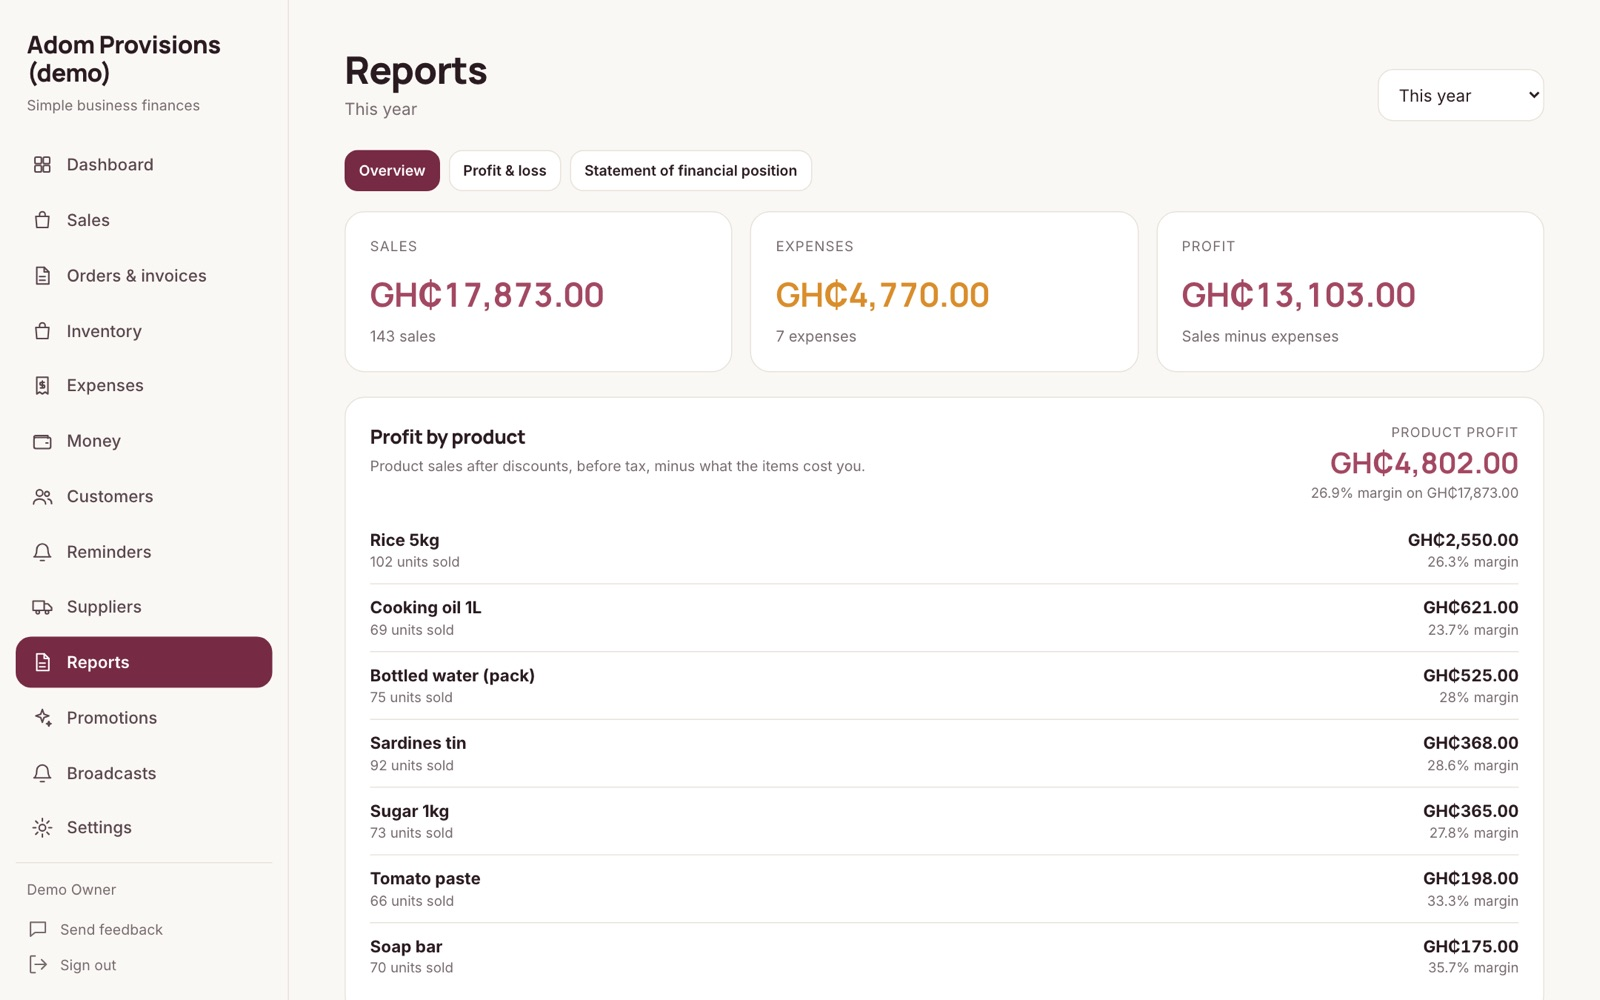
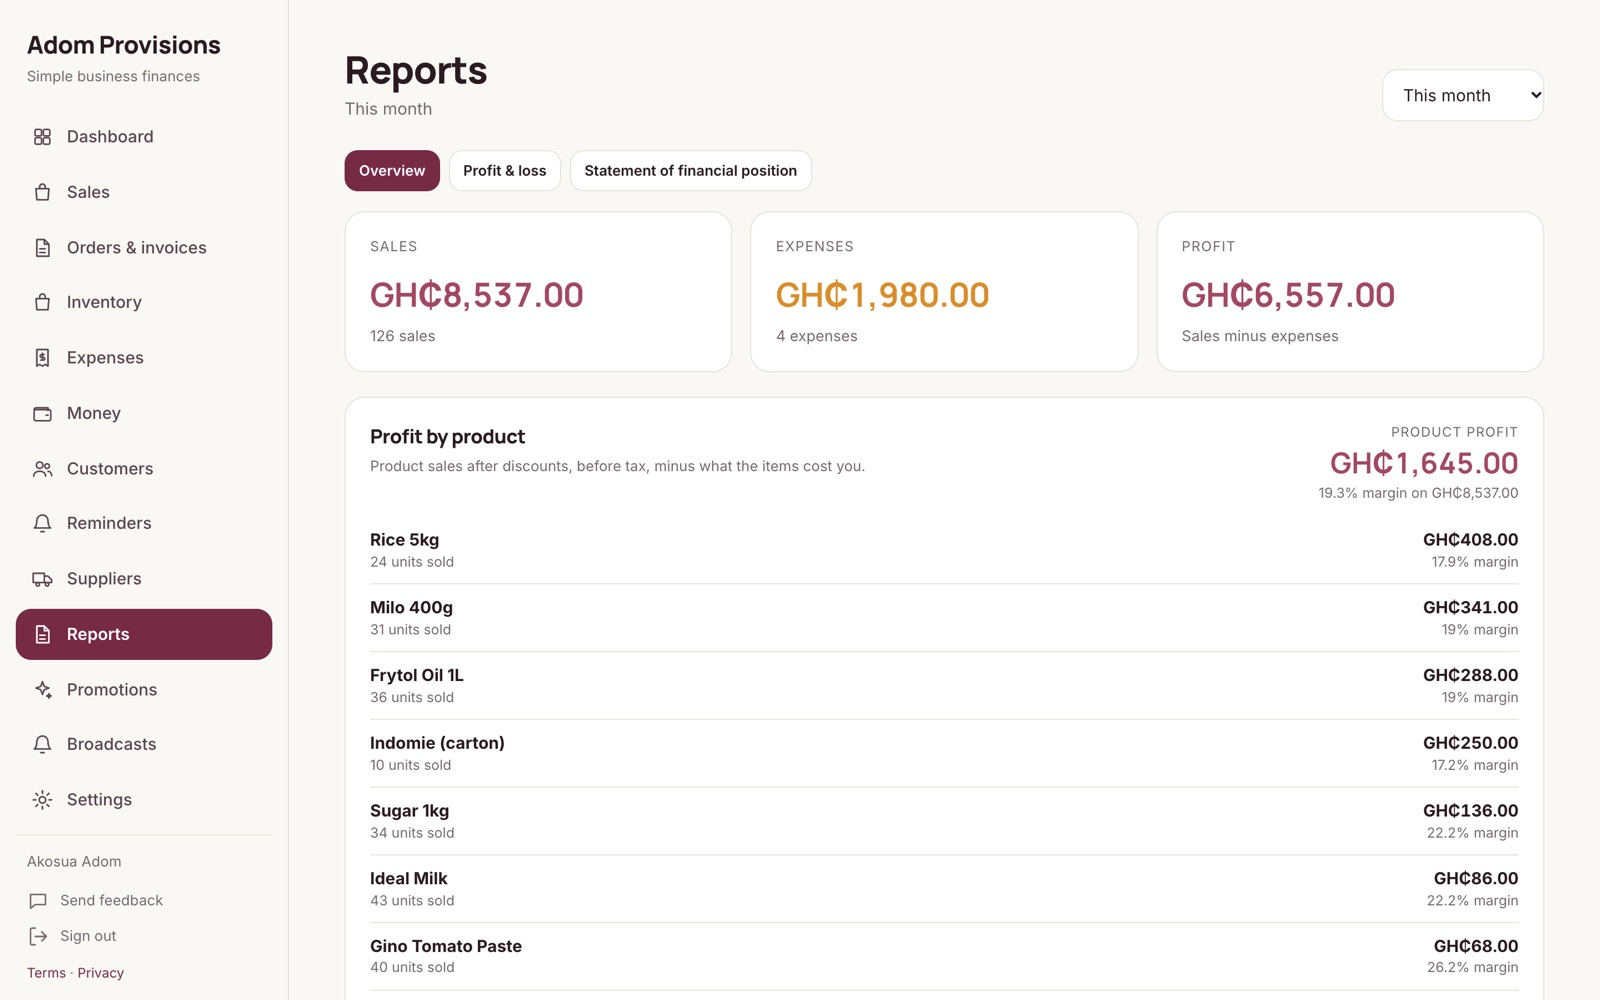
Add the BIZWISE case study

diff --git a/projects/bizwise.html b/projects/bizwise.html
@@ -1,0 +1,201 @@
+<!DOCTYPE html>
+<html lang="en">
+<head>
+  <meta charset="UTF-8">
+  <meta name="viewport" content="width=device-width, initial-scale=1.0">
+  <title>BIZWISE — Business Finance App Case Study · Michael Osei Yeboah</title>
+  <meta name="description" content="Case study: BIZWISE, a finance app for small businesses in Ghana covering sales, stock, invoices, customers and financial reports, built by Michael Osei Yeboah.">
+  <meta name="author" content="Michael Osei Yeboah">
+  <meta name="theme-color" content="#101010">
+  <link rel="canonical" href="https://michael-osei-yeboah.vercel.app/projects/bizwise.html">
+  <meta property="og:type" content="article">
+  <meta property="og:title" content="BIZWISE — Business Finance App Case Study">
+  <meta property="og:description" content="Sales, stock, invoices and financial reports for small businesses, with every amount kept exact to the pesewa.">
+  <meta property="og:url" content="https://michael-osei-yeboah.vercel.app/projects/bizwise.html">
+  <meta property="og:image" content="https://michael-osei-yeboah.vercel.app/assets/images/project-bizwise.jpg">
+  <meta name="twitter:card" content="summary_large_image">
+  <link rel="icon" href="../assets/images/favicon.svg" type="image/svg+xml">
+  <link rel="preconnect" href="https://fonts.googleapis.com">
+  <link rel="preconnect" href="https://fonts.gstatic.com" crossorigin>
+  <!-- Loaded without blocking the first paint -->
+  <link rel="preload" as="style" href="https://fonts.googleapis.com/css2?family=Inter+Tight:wght@300;400;500;600&family=Manrope:wght@400;500;600;700&display=swap" onload="this.onload=null;this.rel='stylesheet'">
+  <noscript><link rel="stylesheet" href="https://fonts.googleapis.com/css2?family=Inter+Tight:wght@300;400;500;600&family=Manrope:wght@400;500;600;700&display=swap"></noscript>
+  <link rel="stylesheet" href="../css/style.css">
+  <script>
+    // Marks JS as available and applies the saved (or device) colour theme before first paint
+    document.documentElement.classList.add("js");
+    (function () {
+      var t = null;
+      try { t = localStorage.getItem("theme"); } catch (e) {}
+      if (t !== "light" && t !== "dark") t = window.matchMedia("(prefers-color-scheme: dark)").matches ? "dark" : "light";
+      document.documentElement.setAttribute("data-theme", t);
+    })();
+  </script>
+  <script>window.va = window.va || function () { (window.vaq = window.vaq || []).push(arguments); };</script>
+  <script defer src="/_vercel/insights/script.js"></script>
+</head>
+<body id="top">
+  <a class="skip-link" href="#main">Skip to main content</a>
+
+  <header class="site-header">
+    <nav class="nav container" aria-label="Primary">
+      <div class="nav__bar">
+        <a href="../index.html" class="brand">
+          <span class="brand__mark" aria-hidden="true">MY</span>
+          <span class="brand__name">Michael Yeboah</span>
+        </a>
+        <div class="nav__menu" id="nav-menu">
+          <ul class="nav__links">
+            <li><a href="../index.html#about" class="nav__link">About</a></li>
+            <li><a href="../index.html#skills" class="nav__link">Skills</a></li>
+            <li><a href="../index.html#projects" class="nav__link is-active" aria-current="true">Work</a></li>
+            <li><a href="../index.html#experience" class="nav__link">Experience</a></li>
+            <li><a href="../index.html#cv" class="nav__link">CV</a></li>
+          </ul>
+          <a href="../index.html#contact" class="btn btn--glass btn--sm nav__cta">Get in touch</a>
+        </div>
+        <button class="theme-toggle" type="button" aria-label="Switch to dark mode">
+          <svg class="icon-moon" viewBox="0 0 24 24" aria-hidden="true"><path d="M20.5 14.5A8.5 8.5 0 0 1 9.5 3.5a8.5 8.5 0 1 0 11 11z"/></svg>
+          <svg class="icon-sun" viewBox="0 0 24 24" aria-hidden="true"><circle cx="12" cy="12" r="4"/><path d="M12 2v2M12 20v2M4.9 4.9l1.4 1.4M17.7 17.7l1.4 1.4M2 12h2M20 12h2M4.9 19.1l1.4-1.4M17.7 6.3l1.4-1.4"/></svg>
+        </button>
+        <button class="nav__toggle" type="button" aria-expanded="false" aria-controls="nav-menu" aria-label="Open menu">
+          <span class="nav__toggle-bar"></span>
+          <span class="nav__toggle-bar"></span>
+        </button>
+      </div>
+    </nav>
+  </header>
+
+  <main id="main">
+    <section class="case-hero" aria-labelledby="case-title">
+      <div class="container">
+        <a class="case-back" href="../index.html#projects"><span aria-hidden="true">←</span> All projects</a>
+        <p class="eyebrow">Case study · Business finance</p>
+        <h1 class="case-hero__title" id="case-title">BIZWISE — <span class="accent">the books, kept while you sell</span></h1>
+        <p class="case-hero__lead">A web app for small shops and businesses in Ghana. Staff record sales at the counter, stock goes down by itself, and the owner sees profit, money on hand and who owes what, without keeping a separate set of books.</p>
+
+        <dl class="case-meta">
+          <div><dt>Role</dt><dd>Product design &amp; development</dd></div>
+          <div><dt>Status</dt><dd>Live</dd></div>
+          <div><dt>Platform</dt><dd>Web app, works on phones and computers</dd></div>
+          <div><dt>Stack</dt><dd>JavaScript · Node.js · Express · SQLite</dd></div>
+        </dl>
+
+        <div class="case-actions">
+          <a class="btn btn--pill btn--gold" href="https://bizwise-suuk.onrender.com" target="_blank" rel="noopener">
+            Open BIZWISE
+            <span class="btn__arrow" aria-hidden="true"><svg viewBox="0 0 24 24"><path d="M5 12h14M13 6l6 6-6 6"/></svg></span>
+          </a>
+        </div>
+      </div>
+    </section>
+
+    <div class="container">
+      <figure class="case-cover case-figure">
+        <img src="../assets/images/case/bizwise-dashboard.jpg" alt="BIZWISE dashboard for a sample shop: money from sales, expenses, profit, money on hand by cash, Mobile Money and bank, and a daily chart of sales, expenses and profit" width="1600" height="1000">
+        <figcaption>The owner’s dashboard. All screenshots use a made-up shop.</figcaption>
+      </figure>
+
+      <div class="case-body">
+        <section class="case-section" aria-labelledby="s-problem">
+          <h2 class="case-section__label" id="s-problem"><span>01</span>The problem</h2>
+          <div>
+            <p>Many small shops keep their records in a notebook, if at all. Money comes in as cash, Mobile Money and bank transfers, some customers buy on credit, and stock is counted by eye. At the end of the month the owner often can’t say what they actually made, or where the money went.</p>
+            <p>Accounting software exists, but it is built for accountants. I wanted something a cashier could use at the counter, that turns everyday sales into proper accounts without anyone having to post entries.</p>
+          </div>
+        </section>
+
+        <section class="case-section" aria-labelledby="s-built">
+          <h2 class="case-section__label" id="s-built"><span>02</span>What I built</h2>
+          <div>
+            <div class="case-features">
+              <div class="case-feature"><h3>Sales at the counter</h3><p>Scan or type a barcode, take cash, Mobile Money, bank or credit, apply a promo code and print a receipt. Stock is deducted automatically.</p></div>
+              <div class="case-feature"><h3>Stock &amp; suppliers</h3><p>Products with cost and selling prices, supplier deliveries, stock adjustments and low-stock alerts.</p></div>
+              <div class="case-feature"><h3>Customers &amp; invoices</h3><p>Who owes what, with WhatsApp reminders; invoices with VAT, NHIL and GETFund; orders assigned to delivery riders.</p></div>
+              <div class="case-feature"><h3>Reports</h3><p>Profit and loss, a statement of financial position, profit by product, best sellers and how money was received.</p></div>
+            </div>
+          </div>
+        </section>
+
+        <section class="case-section" aria-labelledby="s-how">
+          <h2 class="case-section__label" id="s-how"><span>03</span>How it works</h2>
+          <div>
+            <p>BIZWISE is a Node.js and Express server with a SQLite database and a plain HTML, CSS and JavaScript front end, with no build step. It runs on Render, with Paystack for payments and Resend for email.</p>
+            <ul class="case-list">
+              <li><strong>Exact money.</strong> Every amount is stored in whole pesewas, so totals, tax and change never pick up rounding errors.</li>
+              <li><strong>One database per business.</strong> Each shop’s records live in their own database, so one business can never see another’s data.</li>
+              <li><strong>Roles that match a shop.</strong> The owner sees the money; cashiers sell, inventory managers handle stock, and riders see only the orders assigned to them.</li>
+              <li><strong>Ghana’s taxes built in.</strong> VAT, NHIL and GETFund are worked out per line, tax-inclusive or exclusive, as the business chooses.</li>
+              <li><strong>Backups on a free plan.</strong> The server keeps no disk, so changed databases are saved to a private GitHub repository every 30 seconds and restored when it wakes.</li>
+              <li><strong>Run as a service.</strong> A platform screen adds businesses, resets logins, takes backups and handles subscriptions paid by Mobile Money or card.</li>
+            </ul>
+          </div>
+        </section>
+
+        <section class="case-section" aria-labelledby="s-screens">
+          <h2 class="case-section__label" id="s-screens"><span>04</span>Screens</h2>
+          <div class="case-gallery">
+            <figure class="case-figure case-figure--wide">
+              <img src="../assets/images/case/bizwise-reports.jpg" alt="BIZWISE reports: sales, expenses and profit for the month, and profit by product with each product’s margin" width="1600" height="1000" loading="lazy">
+              <figcaption>Reports: profit for the month and the margin on each product.</figcaption>
+            </figure>
+            <figure class="case-figure case-figure--phone">
+              <img src="../assets/images/case/bizwise-mobile.jpg" alt="BIZWISE dashboard on a phone, showing money from sales, expenses and profit" width="450" height="974" loading="lazy">
+              <figcaption>The same dashboard on a phone.</figcaption>
+            </figure>
+            <figure class="case-figure">
+              <img src="../assets/images/case/bizwise-sales.jpg" alt="BIZWISE sales list showing items sold, how each was paid and one sale on credit" width="1600" height="1000" loading="lazy">
+              <figcaption>Sales, with how each was paid and what customers still owe.</figcaption>
+            </figure>
+          </div>
+        </section>
+
+        <section class="case-section" aria-labelledby="s-learned">
+          <h2 class="case-section__label" id="s-learned"><span>05</span>What I took from it</h2>
+          <div>
+            <p>BIZWISE is where my accounting and my code meet most directly. A sale is not just a row in a table: it moves stock, cash or a customer’s balance, and it has to land correctly in the profit and loss and the statement of financial position. Building it made me think about every transaction the way I would at month end.</p>
+            <p><strong>Next:</strong> getting it into more shops and learning from how they use it.</p>
+          </div>
+        </section>
+
+        <div class="case-next">
+          <div>
+            <p>Next case study</p>
+            <h2>Sika — Fintech App</h2>
+          </div>
+          <a class="btn btn--pill btn--dark" href="sika.html">
+            Read it
+            <span class="btn__arrow" aria-hidden="true"><svg viewBox="0 0 24 24"><path d="M5 12h14M13 6l6 6-6 6"/></svg></span>
+          </a>
+        </div>
+      </div>
+    </div>
+  </main>
+
+  <footer class="footer">
+    <div class="container">
+      <div class="footer__top">
+        <ul class="footer__links">
+          <li><a href="../index.html#about">About</a></li>
+          <li><a href="../index.html#skills">Skills</a></li>
+          <li><a href="../index.html#projects">Work</a></li>
+          <li><a href="../index.html#experience">Experience</a></li>
+          <li><a href="../index.html#cv">CV</a></li>
+        </ul>
+        <a class="footer__email" href="mailto:michaelyeboah735@gmail.com">
+          <svg viewBox="0 0 24 24" aria-hidden="true"><rect x="3" y="5" width="18" height="14" rx="2"/><path d="M3 7l9 6 9-6"/></svg>
+          michaelyeboah735@gmail.com
+        </a>
+      </div>
+      <p class="footer__wordmark" aria-hidden="true">Michael <span>Yeboah</span></p>
+      <div class="footer__bottom">
+        <p>© <span id="year">2026</span> Michael Osei Yeboah. All rights reserved.</p>
+        <a href="#top">Back to top <span aria-hidden="true">↑</span></a>
+      </div>
+    </div>
+  </footer>
+
+  <div class="toast" id="toast" role="status" aria-live="polite"></div>
+  <script src="../js/script.js" defer></script>
+</body>
+</html>

diff --git a/projects/sika.html b/projects/sika.html
@@ -158,11 +158,11 @@
 
         <div class="case-next">
           <div>
-            <p>More work</p>
-            <h2>Back to all projects</h2>
+            <p>Next case study</p>
+            <h2>BIZWISE — Business Finance App</h2>
           </div>
-          <a class="btn btn--pill btn--dark" href="../index.html#projects">
-            See them
+          <a class="btn btn--pill btn--dark" href="bizwise.html">
+            Read it
             <span class="btn__arrow" aria-hidden="true"><svg viewBox="0 0 24 24"><path d="M5 12h14M13 6l6 6-6 6"/></svg></span>
           </a>
         </div>

diff --git a/index.html b/index.html
@@ -429,6 +429,7 @@
                 <li>JavaScript</li><li>Node.js</li><li>Express</li><li>SQLite</li><li>Paystack MoMo</li>
               </ul>
               <a class="project__link" href="https://bizwise-suuk.onrender.com" target="_blank" rel="noopener">Visit live site <span class="circle-arrow circle-arrow--sm" aria-hidden="true"><svg viewBox="0 0 24 24"><path d="M5 12h14M13 6l6 6-6 6"/></svg></span></a>
+              <a class="project__more" href="projects/bizwise.html">Read the case study</a>
             </div>
           </article>
 
